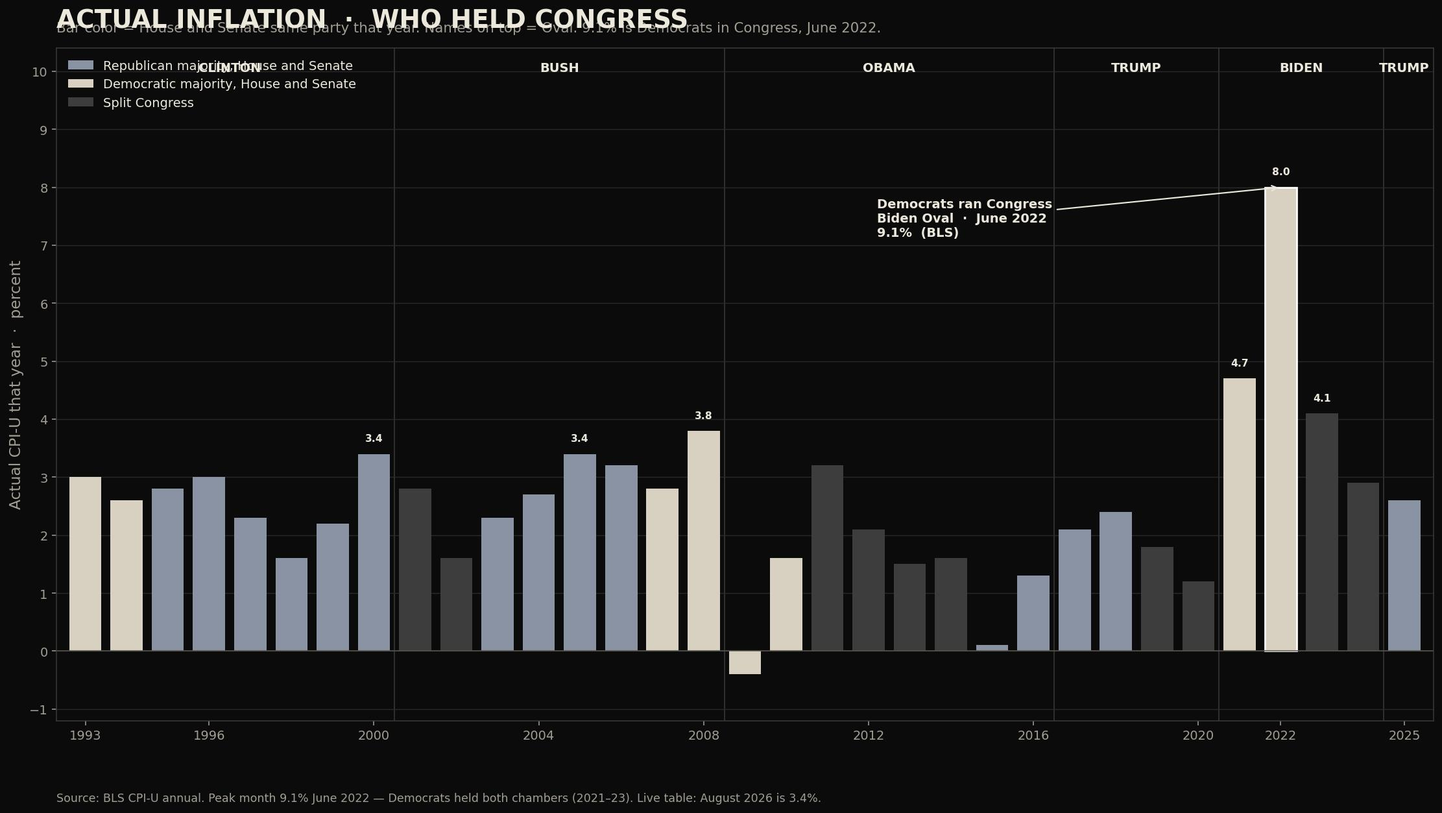
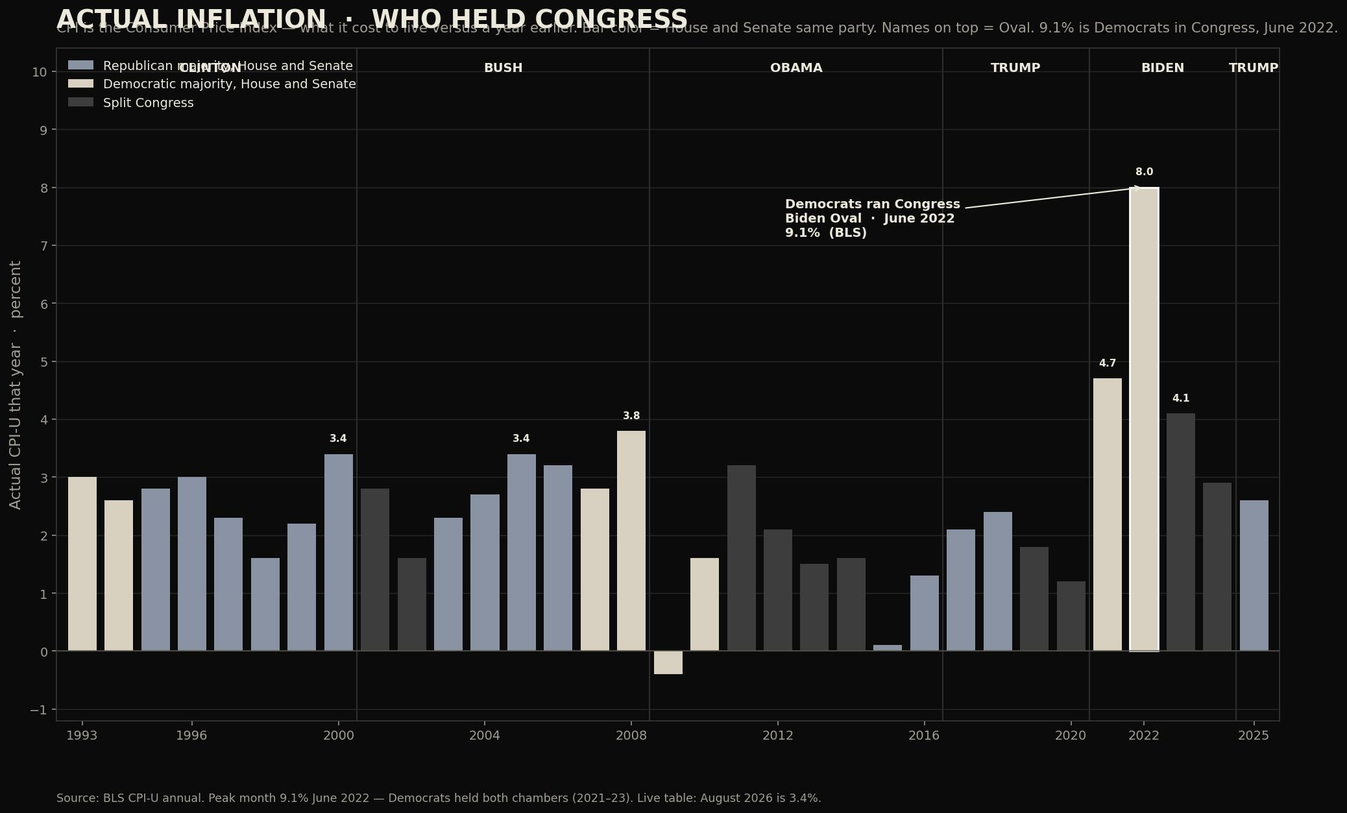
Spell out CPI peak: highest 12-month rise in prices, groceries rent fuel.

diff --git a/UPLOAD-TO-NAMECHEAP/scorecard.html b/UPLOAD-TO-NAMECHEAP/scorecard.html
@@ -92,12 +92,12 @@ footer .f{max-width:72rem;margin:0 auto;display:flex;justify-content:space-betwe
 <div class="panel" id="gop-charts">
 <p class="btns"><a class="btn" href="#gop-charts">Charts</a><a class="btn out" href="#gop-read">Read</a></p>
 
-<figure><p class="kicker">Policy — success and failure</p><img src="/images/chart-policy.jpg" alt="Policy — success and failure"/><figcaption style="color:#a39e93;font-size:.85rem"><a href="https://www.congress.gov/">Congress.gov</a> · <a href="https://www.bls.gov/news.release/archives/cpi_07132022.htm">BLS — June 2022</a></figcaption></figure><figure><p class="kicker">The debt — the driver, and what each party voted</p><img src="/images/chart-debt-why.jpg" alt="The debt — the driver, and what each party voted"/><figcaption style="color:#a39e93;font-size:.85rem"><a href="https://www.cbo.gov/topics/budget">CBO — budget</a> · <a href="https://fiscaldata.treasury.gov/datasets/debt-to-the-penny/">Treasury — Debt to the Penny</a> · <a href="https://www.gao.gov/products/gao-25-107746">GAO fraud</a></figcaption></figure><figure><p class="kicker">The Oval — encounters and the CPI peak</p><img src="/images/chart-oval.jpg" alt="The Oval — encounters and the CPI peak"/><figcaption style="color:#a39e93;font-size:.85rem"><a href="https://www.cbp.gov/newsroom/stats/cbp-enforcement-statistics">CBP — enforcement statistics</a> · <a href="https://www.bls.gov/cpi/">BLS — CPI</a> · <a href="https://www.eia.gov/petroleum/gasdiesel/">EIA — the gallon</a></figcaption></figure>
+<figure><p class="kicker">Policy — success and failure</p><img src="/images/chart-policy.jpg" alt="Policy — success and failure"/><figcaption style="color:#a39e93;font-size:.85rem"><a href="https://www.congress.gov/">Congress.gov</a> · <a href="https://www.bls.gov/news.release/archives/cpi_07132022.htm">BLS — June 2022</a></figcaption></figure><figure><p class="kicker">The debt — the driver, and what each party voted</p><img src="/images/chart-debt-why.jpg" alt="The debt — the driver, and what each party voted"/><figcaption style="color:#a39e93;font-size:.85rem"><a href="https://www.cbo.gov/topics/budget">CBO — budget</a> · <a href="https://fiscaldata.treasury.gov/datasets/debt-to-the-penny/">Treasury — Debt to the Penny</a> · <a href="https://www.gao.gov/products/gao-25-107746">GAO fraud</a></figcaption></figure><figure><p class="kicker">The Oval — encounters and the highest price spike (CPI)</p><img src="/images/chart-oval.jpg" alt="The Oval — encounters and the highest price spike (CPI)"/><figcaption style="color:#a39e93;font-size:.85rem"><a href="https://www.cbp.gov/newsroom/stats/cbp-enforcement-statistics">CBP — enforcement statistics</a> · <a href="https://www.bls.gov/cpi/">BLS — CPI</a> · <a href="https://www.eia.gov/petroleum/gasdiesel/">EIA — the gallon</a></figcaption></figure>
 </div>
 <div class="panel" id="dem-charts">
 <p class="btns"><a class="btn" href="#dem-charts">Charts</a><a class="btn out" href="#dem-read">Read</a></p>
 
-<figure><p class="kicker">The invasion bill — taxpayer cost and the eligibility doors</p><img src="/images/chart-aliens.jpg" alt="The invasion bill — taxpayer cost and the eligibility doors"/><figcaption style="color:#a39e93;font-size:.85rem"><a href="https://www.cbp.gov/newsroom/stats/nationwide-encounters">CBP nationwide</a> · <a href="https://www.cbo.gov/publication/61256">CBO 61256</a> · <a href="https://www.cbo.gov/publication/60805">CBO 60805</a> · <a href="https://www.law.cornell.edu/uscode/text/8/1611">8 U.S.C. § 1611</a></figcaption></figure><figure><p class="kicker">The open border — by administration</p><img src="/images/chart-border.jpg" alt="The open border — by administration"/><figcaption style="color:#a39e93;font-size:.85rem"><a href="https://www.cbp.gov/newsroom/stats/southwest-land-border-encounters">CBP — southwest encounters</a> · <a href="https://www.cbo.gov/publication/61256">CBO — 2023 state and local cost</a></figcaption></figure><figure><p class="kicker">The Oval — encounters and the CPI peak</p><img src="/images/chart-oval.jpg" alt="The Oval — encounters and the CPI peak"/><figcaption style="color:#a39e93;font-size:.85rem"><a href="https://www.cbp.gov/newsroom/stats/cbp-enforcement-statistics">CBP — enforcement statistics</a> · <a href="https://www.bls.gov/cpi/">BLS — CPI</a> · <a href="https://www.eia.gov/petroleum/gasdiesel/">EIA — the gallon</a></figcaption></figure><figure><p class="kicker">Actual inflation — who held Congress</p><img src="/images/chart-inflation-party.jpg" alt="Actual inflation — who held Congress"/><figcaption style="color:#a39e93;font-size:.85rem"><a href="https://www.bls.gov/cpi/">BLS CPI-U</a> · <a href="https://www.bls.gov/news.release/archives/cpi_07132022.htm">9.1% — June 2022</a> · <a href="https://www.bls.gov/news.release/cpi.nr0.htm">BLS live — August 2026, 3.4%</a> · <a href="https://fred.stlouisfed.org/graph/?id=CPIAUCSL&units=pc1">FRED — 12-month CPI</a></figcaption></figure><figure><p class="kicker">Policy — success and failure</p><img src="/images/chart-policy.jpg" alt="Policy — success and failure"/><figcaption style="color:#a39e93;font-size:.85rem"><a href="https://www.congress.gov/">Congress.gov</a> · <a href="https://www.bls.gov/news.release/archives/cpi_07132022.htm">BLS — June 2022</a></figcaption></figure>
+<figure><p class="kicker">The invasion bill — taxpayer cost and the eligibility doors</p><img src="/images/chart-aliens.jpg" alt="The invasion bill — taxpayer cost and the eligibility doors"/><figcaption style="color:#a39e93;font-size:.85rem"><a href="https://www.cbp.gov/newsroom/stats/nationwide-encounters">CBP nationwide</a> · <a href="https://www.cbo.gov/publication/61256">CBO 61256</a> · <a href="https://www.cbo.gov/publication/60805">CBO 60805</a> · <a href="https://www.law.cornell.edu/uscode/text/8/1611">8 U.S.C. § 1611</a></figcaption></figure><figure><p class="kicker">The open border — by administration</p><img src="/images/chart-border.jpg" alt="The open border — by administration"/><figcaption style="color:#a39e93;font-size:.85rem"><a href="https://www.cbp.gov/newsroom/stats/southwest-land-border-encounters">CBP — southwest encounters</a> · <a href="https://www.cbo.gov/publication/61256">CBO — 2023 state and local cost</a></figcaption></figure><figure><p class="kicker">The Oval — encounters and the highest price spike (CPI)</p><img src="/images/chart-oval.jpg" alt="The Oval — encounters and the highest price spike (CPI)"/><figcaption style="color:#a39e93;font-size:.85rem"><a href="https://www.cbp.gov/newsroom/stats/cbp-enforcement-statistics">CBP — enforcement statistics</a> · <a href="https://www.bls.gov/cpi/">BLS — CPI</a> · <a href="https://www.eia.gov/petroleum/gasdiesel/">EIA — the gallon</a></figcaption></figure><figure><p class="kicker">Actual inflation — who held Congress</p><img src="/images/chart-inflation-party.jpg" alt="Actual inflation — who held Congress"/><figcaption style="color:#a39e93;font-size:.85rem"><a href="https://www.bls.gov/cpi/">BLS CPI-U</a> · <a href="https://www.bls.gov/news.release/archives/cpi_07132022.htm">9.1% — June 2022</a> · <a href="https://www.bls.gov/news.release/cpi.nr0.htm">BLS live — August 2026, 3.4%</a> · <a href="https://fred.stlouisfed.org/graph/?id=CPIAUCSL&units=pc1">FRED — 12-month CPI</a></figcaption></figure><figure><p class="kicker">Policy — success and failure</p><img src="/images/chart-policy.jpg" alt="Policy — success and failure"/><figcaption style="color:#a39e93;font-size:.85rem"><a href="https://www.congress.gov/">Congress.gov</a> · <a href="https://www.bls.gov/news.release/archives/cpi_07132022.htm">BLS — June 2022</a></figcaption></figure>
 </div>
 <div class="panel" id="split-charts">
 <p class="btns"><a class="btn" href="#split-charts">Charts</a><a class="btn out" href="#split-read">Read</a></p>
@@ -106,13 +106,13 @@ footer .f{max-width:72rem;margin:0 auto;display:flex;justify-content:space-betwe
 </div>
 <div class="panel" id="oval-charts">
 <p class="btns"><a class="btn" href="#oval-charts">Charts</a><a class="btn out" href="#oval-read">Read</a></p>
-<p class="kicker">What an encounter is</p><p>Customs and Border Protection counts an encounter when its officers meet a person who is not making a lawful entry. That is Border Patrol between the ports of entry, and officers at land ports, airports, and seaports. It is people stopped, turned back, expelled, or processed. It is not a visa. It is not a gotaway — those are the people CBP did not meet. Nationwide means every door CBP counts, not only the southwest river. Bush and Obama use southwest Border Patrol, the long official table. Trump 1 and Biden use CBP nationwide when that dashboard exists. Four Ovals: two Republican, two Democratic.</p><p><a href="https://www.cbp.gov/newsroom/stats/nationwide-encounters">CBP — nationwide encounters →</a></p>
-<figure><p class="kicker">The Oval — encounters and the CPI peak</p><img src="/images/chart-oval.jpg" alt="The Oval — encounters and the CPI peak"/><figcaption style="color:#a39e93;font-size:.85rem"><a href="https://www.cbp.gov/newsroom/stats/cbp-enforcement-statistics">CBP — enforcement statistics</a> · <a href="https://www.bls.gov/cpi/">BLS — CPI</a> · <a href="https://www.eia.gov/petroleum/gasdiesel/">EIA — the gallon</a></figcaption></figure><figure><p class="kicker">The gallon — four administrations</p><img src="/images/chart-pump-admins.jpg" alt="The gallon — four administrations"/><figcaption style="color:#a39e93;font-size:.85rem"><a href="https://www.eia.gov/petroleum/gasdiesel/">EIA</a> · <a href="https://fred.stlouisfed.org/series/GASREGW">FRED GASREGW</a></figcaption></figure><figure><p class="kicker">Crime — murder rate by administration</p><img src="/images/chart-crime.jpg" alt="Crime — murder rate by administration"/><figcaption style="color:#a39e93;font-size:.85rem"><a href="https://www.fbi.gov/news/stories/violent-crime-falls-at-historic-rate-new-fbi-data-show">FBI — violent crime 2025</a> · <a href="https://bjs.ojp.gov/document/ckle24.pdf">BJS — Crime Known to Law Enforcement, 2024</a></figcaption></figure>
+<p class="kicker">What an encounter is</p><p>Customs and Border Protection counts an encounter when its officers meet a person who is not making a lawful entry. That is Border Patrol between the ports of entry, and officers at land ports, airports, and seaports. It is people stopped, turned back, expelled, or processed. It is not a visa. It is not a gotaway — those are the people CBP did not meet. Nationwide means every door CBP counts, not only the southwest river. Bush and Obama use southwest Border Patrol, the long official table. Trump 1 and Biden use CBP nationwide when that dashboard exists. Four Ovals: two Republican, two Democratic.</p><p><a href="https://www.cbp.gov/newsroom/stats/nationwide-encounters">CBP — nationwide encounters →</a></p><p class="kicker">What CPI peak means</p><p>CPI is the Consumer Price Index. The Bureau of Labor Statistics measures a basket of what people actually buy — groceries, rent, fuel, the doctor’s office — and reports how much more that basket costs than a year earlier. CPI peak is the highest of those 12-month readings in that Oval. It is not a four-year average. Biden’s 9.1% is June 2022. Bush’s 5.6% is July 2008. Obama’s 3.9% is September 2011. Trump’s first term: 2.9%.</p><p><a href="https://www.bls.gov/cpi/">BLS — Consumer Price Index →</a></p>
+<figure><p class="kicker">The Oval — encounters and the highest price spike (CPI)</p><img src="/images/chart-oval.jpg" alt="The Oval — encounters and the highest price spike (CPI)"/><figcaption style="color:#a39e93;font-size:.85rem"><a href="https://www.cbp.gov/newsroom/stats/cbp-enforcement-statistics">CBP — enforcement statistics</a> · <a href="https://www.bls.gov/cpi/">BLS — CPI</a> · <a href="https://www.eia.gov/petroleum/gasdiesel/">EIA — the gallon</a></figcaption></figure><figure><p class="kicker">The gallon — four administrations</p><img src="/images/chart-pump-admins.jpg" alt="The gallon — four administrations"/><figcaption style="color:#a39e93;font-size:.85rem"><a href="https://www.eia.gov/petroleum/gasdiesel/">EIA</a> · <a href="https://fred.stlouisfed.org/series/GASREGW">FRED GASREGW</a></figcaption></figure><figure><p class="kicker">Crime — murder rate by administration</p><img src="/images/chart-crime.jpg" alt="Crime — murder rate by administration"/><figcaption style="color:#a39e93;font-size:.85rem"><a href="https://www.fbi.gov/news/stories/violent-crime-falls-at-historic-rate-new-fbi-data-show">FBI — violent crime 2025</a> · <a href="https://bjs.ojp.gov/document/ckle24.pdf">BJS — Crime Known to Law Enforcement, 2024</a></figcaption></figure>
 </div>
 <div class="panel" id="compare-charts">
 <p class="btns"><a class="btn" href="#compare-charts">Charts</a><a class="btn out" href="#compare-read">Read</a></p>
 
-<figure><p class="kicker">The Oval — encounters and the CPI peak</p><img src="/images/chart-oval.jpg" alt="The Oval — encounters and the CPI peak"/><figcaption style="color:#a39e93;font-size:.85rem"><a href="https://www.cbp.gov/newsroom/stats/cbp-enforcement-statistics">CBP — enforcement statistics</a> · <a href="https://www.bls.gov/cpi/">BLS — CPI</a> · <a href="https://www.eia.gov/petroleum/gasdiesel/">EIA — the gallon</a></figcaption></figure><figure><p class="kicker">Policy — success and failure</p><img src="/images/chart-policy.jpg" alt="Policy — success and failure"/><figcaption style="color:#a39e93;font-size:.85rem"><a href="https://www.congress.gov/">Congress.gov</a> · <a href="https://www.bls.gov/news.release/archives/cpi_07132022.htm">BLS — June 2022</a></figcaption></figure><figure><p class="kicker">The debt — the driver, and what each party voted</p><img src="/images/chart-debt-why.jpg" alt="The debt — the driver, and what each party voted"/><figcaption style="color:#a39e93;font-size:.85rem"><a href="https://www.cbo.gov/topics/budget">CBO — budget</a> · <a href="https://fiscaldata.treasury.gov/datasets/debt-to-the-penny/">Treasury — Debt to the Penny</a> · <a href="https://www.gao.gov/products/gao-25-107746">GAO fraud</a></figcaption></figure><figure><p class="kicker">The invasion bill — taxpayer cost and the eligibility doors</p><img src="/images/chart-aliens.jpg" alt="The invasion bill — taxpayer cost and the eligibility doors"/><figcaption style="color:#a39e93;font-size:.85rem"><a href="https://www.cbp.gov/newsroom/stats/nationwide-encounters">CBP nationwide</a> · <a href="https://www.cbo.gov/publication/61256">CBO 61256</a> · <a href="https://www.cbo.gov/publication/60805">CBO 60805</a> · <a href="https://www.law.cornell.edu/uscode/text/8/1611">8 U.S.C. § 1611</a></figcaption></figure><figure><p class="kicker">The open border — by administration</p><img src="/images/chart-border.jpg" alt="The open border — by administration"/><figcaption style="color:#a39e93;font-size:.85rem"><a href="https://www.cbp.gov/newsroom/stats/southwest-land-border-encounters">CBP — southwest encounters</a> · <a href="https://www.cbo.gov/publication/61256">CBO — 2023 state and local cost</a></figcaption></figure><figure><p class="kicker">Actual inflation — who held Congress</p><img src="/images/chart-inflation-party.jpg" alt="Actual inflation — who held Congress"/><figcaption style="color:#a39e93;font-size:.85rem"><a href="https://www.bls.gov/cpi/">BLS CPI-U</a> · <a href="https://www.bls.gov/news.release/archives/cpi_07132022.htm">9.1% — June 2022</a> · <a href="https://www.bls.gov/news.release/cpi.nr0.htm">BLS live — August 2026, 3.4%</a> · <a href="https://fred.stlouisfed.org/graph/?id=CPIAUCSL&units=pc1">FRED — 12-month CPI</a></figcaption></figure><figure><p class="kicker">Crime — murder rate by administration</p><img src="/images/chart-crime.jpg" alt="Crime — murder rate by administration"/><figcaption style="color:#a39e93;font-size:.85rem"><a href="https://www.fbi.gov/news/stories/violent-crime-falls-at-historic-rate-new-fbi-data-show">FBI — violent crime 2025</a> · <a href="https://bjs.ojp.gov/document/ckle24.pdf">BJS — Crime Known to Law Enforcement, 2024</a></figcaption></figure><figure><p class="kicker">The gallon — four administrations</p><img src="/images/chart-pump-admins.jpg" alt="The gallon — four administrations"/><figcaption style="color:#a39e93;font-size:.85rem"><a href="https://www.eia.gov/petroleum/gasdiesel/">EIA</a> · <a href="https://fred.stlouisfed.org/series/GASREGW">FRED GASREGW</a></figcaption></figure>
+<figure><p class="kicker">The Oval — encounters and the highest price spike (CPI)</p><img src="/images/chart-oval.jpg" alt="The Oval — encounters and the highest price spike (CPI)"/><figcaption style="color:#a39e93;font-size:.85rem"><a href="https://www.cbp.gov/newsroom/stats/cbp-enforcement-statistics">CBP — enforcement statistics</a> · <a href="https://www.bls.gov/cpi/">BLS — CPI</a> · <a href="https://www.eia.gov/petroleum/gasdiesel/">EIA — the gallon</a></figcaption></figure><figure><p class="kicker">Policy — success and failure</p><img src="/images/chart-policy.jpg" alt="Policy — success and failure"/><figcaption style="color:#a39e93;font-size:.85rem"><a href="https://www.congress.gov/">Congress.gov</a> · <a href="https://www.bls.gov/news.release/archives/cpi_07132022.htm">BLS — June 2022</a></figcaption></figure><figure><p class="kicker">The debt — the driver, and what each party voted</p><img src="/images/chart-debt-why.jpg" alt="The debt — the driver, and what each party voted"/><figcaption style="color:#a39e93;font-size:.85rem"><a href="https://www.cbo.gov/topics/budget">CBO — budget</a> · <a href="https://fiscaldata.treasury.gov/datasets/debt-to-the-penny/">Treasury — Debt to the Penny</a> · <a href="https://www.gao.gov/products/gao-25-107746">GAO fraud</a></figcaption></figure><figure><p class="kicker">The invasion bill — taxpayer cost and the eligibility doors</p><img src="/images/chart-aliens.jpg" alt="The invasion bill — taxpayer cost and the eligibility doors"/><figcaption style="color:#a39e93;font-size:.85rem"><a href="https://www.cbp.gov/newsroom/stats/nationwide-encounters">CBP nationwide</a> · <a href="https://www.cbo.gov/publication/61256">CBO 61256</a> · <a href="https://www.cbo.gov/publication/60805">CBO 60805</a> · <a href="https://www.law.cornell.edu/uscode/text/8/1611">8 U.S.C. § 1611</a></figcaption></figure><figure><p class="kicker">The open border — by administration</p><img src="/images/chart-border.jpg" alt="The open border — by administration"/><figcaption style="color:#a39e93;font-size:.85rem"><a href="https://www.cbp.gov/newsroom/stats/southwest-land-border-encounters">CBP — southwest encounters</a> · <a href="https://www.cbo.gov/publication/61256">CBO — 2023 state and local cost</a></figcaption></figure><figure><p class="kicker">Actual inflation — who held Congress</p><img src="/images/chart-inflation-party.jpg" alt="Actual inflation — who held Congress"/><figcaption style="color:#a39e93;font-size:.85rem"><a href="https://www.bls.gov/cpi/">BLS CPI-U</a> · <a href="https://www.bls.gov/news.release/archives/cpi_07132022.htm">9.1% — June 2022</a> · <a href="https://www.bls.gov/news.release/cpi.nr0.htm">BLS live — August 2026, 3.4%</a> · <a href="https://fred.stlouisfed.org/graph/?id=CPIAUCSL&units=pc1">FRED — 12-month CPI</a></figcaption></figure><figure><p class="kicker">Crime — murder rate by administration</p><img src="/images/chart-crime.jpg" alt="Crime — murder rate by administration"/><figcaption style="color:#a39e93;font-size:.85rem"><a href="https://www.fbi.gov/news/stories/violent-crime-falls-at-historic-rate-new-fbi-data-show">FBI — violent crime 2025</a> · <a href="https://bjs.ojp.gov/document/ckle24.pdf">BJS — Crime Known to Law Enforcement, 2024</a></figcaption></figure><figure><p class="kicker">The gallon — four administrations</p><img src="/images/chart-pump-admins.jpg" alt="The gallon — four administrations"/><figcaption style="color:#a39e93;font-size:.85rem"><a href="https://www.eia.gov/petroleum/gasdiesel/">EIA</a> · <a href="https://fred.stlouisfed.org/series/GASREGW">FRED GASREGW</a></figcaption></figure>
 </div>
 <div class="panel" id="gop-read">
 <p class="btns"><a class="btn out" href="#gop-charts">Charts</a><a class="btn" href="#gop-read">Read</a></p>
@@ -168,7 +168,10 @@ footer .f{max-width:72rem;margin:0 auto;display:flex;justify-content:space-betwe
 <p class="kicker">What an encounter is</p>
 <p>Customs and Border Protection counts an encounter when its officers meet a person who is not making a lawful entry. That is Border Patrol between the ports of entry, and officers at land ports, airports, and seaports. It is people stopped, turned back, expelled, or processed. It is not a visa. It is not a gotaway — those are the people CBP did not meet. Nationwide means every door CBP counts, not only the southwest river. Bush and Obama use southwest Border Patrol, the long official table. Trump 1 and Biden use CBP nationwide when that dashboard exists. Four Ovals: two Republican, two Democratic.</p>
 <p><a href="https://www.cbp.gov/newsroom/stats/nationwide-encounters">CBP — nationwide encounters →</a></p>
-<div class="grid"><div class="card" style="padding:1.2rem"><p class="kicker">Bush</p><p>FY2001–08</p><h3>8.02 million</h3><p>Southwest Border Patrol apprehensions, FY2001–08. CPI peak July 2008. EIA weekly regular: highest week $4.114 (July 7, 2008).</p><h3>5.6%</h3><p>CPI peak</p><h3>$4.114 peak</h3><p>highest EIA weekly gasoline</p></div><div class="card" style="padding:1.2rem"><p class="kicker">Obama</p><p>FY2009–16</p><h3>3.31 million</h3><p>Southwest Border Patrol apprehensions, FY2009–16. CBP’s nationwide combined dashboard was not published for those years. CPI peak September 2011. EIA weekly regular: highest week $3.965 (May 9, 2011).</p><h3>3.9%</h3><p>CPI peak</p><h3>$3.965 peak</h3><p>highest EIA weekly gasoline</p></div><div class="card" style="padding:1.2rem"><p class="kicker">Trump 1</p><p>FY2017–20</p><h3>3.00 million</h3><p>Nationwide encounters. CPI peak in the term. EIA weekly regular: highest week $2.962 (May 28, 2018).</p><h3>2.9%</h3><p>CPI peak</p><h3>$2.96 peak</h3><p>highest EIA weekly gasoline</p></div><div class="card" style="padding:1.2rem"><p class="kicker">Biden</p><p>FY2021–24</p><h3>10.83 million</h3><p>Nationwide encounters. CPI June 2022. EIA weekly regular: $5.006 the week of June 13, 2022.</p><h3>9.1%</h3><p>CPI peak</p><h3>$5.006 peak</h3><p>highest EIA weekly gasoline</p></div></div>
+<p class="kicker">What CPI peak means</p>
+<p>CPI is the Consumer Price Index. The Bureau of Labor Statistics measures a basket of what people actually buy — groceries, rent, fuel, the doctor’s office — and reports how much more that basket costs than a year earlier. CPI peak is the highest of those 12-month readings in that Oval. It is not a four-year average. Biden’s 9.1% is June 2022. Bush’s 5.6% is July 2008. Obama’s 3.9% is September 2011. Trump’s first term: 2.9%.</p>
+<p><a href="https://www.bls.gov/cpi/">BLS — Consumer Price Index →</a></p>
+<div class="grid"><div class="card" style="padding:1.2rem"><p class="kicker">Bush</p><p>FY2001–08</p><h3>8.02 million</h3><p>Southwest Border Patrol apprehensions, FY2001–08. CPI peak July 2008. EIA weekly regular: highest week $4.114 (July 7, 2008).</p><h3>5.6%</h3><p>CPI peak — highest 12-month rise in prices that Oval (groceries, rent, fuel)</p><h3>$4.114 peak</h3><p>highest EIA weekly gasoline</p></div><div class="card" style="padding:1.2rem"><p class="kicker">Obama</p><p>FY2009–16</p><h3>3.31 million</h3><p>Southwest Border Patrol apprehensions, FY2009–16. CBP’s nationwide combined dashboard was not published for those years. CPI peak September 2011. EIA weekly regular: highest week $3.965 (May 9, 2011).</p><h3>3.9%</h3><p>CPI peak — highest 12-month rise in prices that Oval (groceries, rent, fuel)</p><h3>$3.965 peak</h3><p>highest EIA weekly gasoline</p></div><div class="card" style="padding:1.2rem"><p class="kicker">Trump 1</p><p>FY2017–20</p><h3>3.00 million</h3><p>Nationwide encounters. CPI peak in the term. EIA weekly regular: highest week $2.962 (May 28, 2018).</p><h3>2.9%</h3><p>CPI peak — highest 12-month rise in prices that Oval (groceries, rent, fuel)</p><h3>$2.96 peak</h3><p>highest EIA weekly gasoline</p></div><div class="card" style="padding:1.2rem"><p class="kicker">Biden</p><p>FY2021–24</p><h3>10.83 million</h3><p>Nationwide encounters. CPI June 2022. EIA weekly regular: $5.006 the week of June 13, 2022.</p><h3>9.1%</h3><p>CPI peak — highest 12-month rise in prices that Oval (groceries, rent, fuel)</p><h3>$5.006 peak</h3><p>highest EIA weekly gasoline</p></div></div>
 <p><a href="https://www.cbp.gov/newsroom/stats/nationwide-encounters"><strong>This term</strong> · FY2025 · 0.69 million nationwide. After the Oval changed. Southwest Border Patrol 237,538 — lowest since 1970.</a></p>
 <p><a href="https://www.cbp.gov/newsroom/stats/nationwide-encounters">CBP — nationwide encounters</a> · <a href="https://www.cbp.gov/document/stats/us-border-patrol-fiscal-year-southwest-border-sector-apprehensions-fy-1960-fy-2019">CBP — southwest Border Patrol FY1960–2019</a> · <a href="https://www.bls.gov/news.release/archives/cpi_08142008.htm">BLS — CPI July 2008, 5.6%</a> · <a href="https://www.bls.gov/news.release/archives/cpi_10192011.htm">BLS — CPI September 2011, 3.9%</a> · <a href="https://www.cbp.gov/newsroom/stats/cbp-enforcement-statistics">CBP — enforcement statistics</a> · <a href="https://www.bls.gov/cpi/">BLS — CPI</a> · <a href="https://www.eia.gov/petroleum/gasdiesel/">EIA — the gallon</a> · <a href="/pump.html">The pump</a></p>
 </div>

diff --git a/src/components/midterm-scorecard.tsx b/src/components/midterm-scorecard.tsx
@@ -10,6 +10,7 @@ import {
   OVAL_LINKS,
   OVAL_NOW,
   ENCOUNTERS,
+  CPI_PEAK,
   ALIENS,
   DEBT_WHY,
   CHARTS,
@@ -38,6 +39,7 @@ function ChartStack({ tab }: { tab: TabId }) {
   return (
     <div className="space-y-8">
       {tab === "oval" ? (
+        <>
         <div className="rounded-md border border-border bg-surface p-5">
           <p className="font-display text-xs font-semibold tracking-[0.2em] text-sage uppercase">
             {ENCOUNTERS.k}
@@ -52,6 +54,21 @@ function ChartStack({ tab }: { tab: TabId }) {
             CBP — nationwide encounters →
           </a>
         </div>
+        <div className="rounded-md border border-border bg-surface p-5">
+          <p className="font-display text-xs font-semibold tracking-[0.2em] text-sage uppercase">
+            {CPI_PEAK.k}
+          </p>
+          <p className="mt-3 text-base leading-relaxed">{CPI_PEAK.v}</p>
+          <a
+            href={CPI_PEAK.href}
+            target="_blank"
+            rel="noreferrer"
+            className="mt-3 inline-flex min-h-11 items-center font-display text-xs font-semibold tracking-wide text-sage uppercase no-underline hover:text-fg"
+          >
+            BLS — Consumer Price Index →
+          </a>
+        </div>
+        </>
       ) : null}
       {TAB_CHARTS[tab].map((c) => (
         <figure key={c.src}>
@@ -417,6 +434,20 @@ function OvalFile() {
           CBP — nationwide encounters →
         </a>
       </div>
+      <div className="rounded-md border border-border bg-surface p-5">
+        <p className="font-display text-xs font-semibold tracking-[0.2em] text-sage uppercase">
+          {CPI_PEAK.k}
+        </p>
+        <p className="mt-3 text-base leading-relaxed">{CPI_PEAK.v}</p>
+        <a
+          href={CPI_PEAK.href}
+          target="_blank"
+          rel="noreferrer"
+          className="mt-3 inline-flex min-h-11 items-center font-display text-xs font-semibold tracking-wide text-sage uppercase no-underline hover:text-fg"
+        >
+          BLS — Consumer Price Index →
+        </a>
+      </div>
       <div className="grid gap-4 sm:grid-cols-2 lg:grid-cols-4">
         {OVAL.map((row) => (
           <div key={row.who} className="rounded-md border border-border bg-surface p-5">
@@ -427,7 +458,9 @@ function OvalFile() {
             <p className="mt-4 font-display text-3xl font-bold tracking-wide">{row.enc}</p>
             <p className="mt-1 text-sm text-muted">{row.note}</p>
             <p className="mt-4 font-display text-2xl font-bold tracking-wide">{row.cpi}</p>
-            <p className="mt-1 text-sm text-muted">CPI peak, year-over-year</p>
+            <p className="mt-1 text-sm text-muted">
+              CPI peak — highest 12-month rise in prices that Oval (groceries, rent, fuel)
+            </p>
             <p className="mt-4 font-display text-2xl font-bold tracking-wide">{row.gas}</p>
             <p className="mt-1 text-sm text-muted">highest EIA weekly gasoline</p>
           </div>

diff --git a/src/lib/scorecard.ts b/src/lib/scorecard.ts
@@ -273,6 +273,13 @@ export const ENCOUNTERS = {
   href: "https://www.cbp.gov/newsroom/stats/nationwide-encounters",
 };
 
+/** What CPI peak means. BLS. Not a mood. */
+export const CPI_PEAK = {
+  k: "What CPI peak means",
+  v: "CPI is the Consumer Price Index. The Bureau of Labor Statistics measures a basket of what people actually buy — groceries, rent, fuel, the doctor’s office — and reports how much more that basket costs than a year earlier. CPI peak is the highest of those 12-month readings in that Oval. It is not a four-year average. Biden’s 9.1% is June 2022. Bush’s 5.6% is July 2008. Obama’s 3.9% is September 2011. Trump’s first term: 2.9%.",
+  href: "https://www.bls.gov/cpi/",
+};
+
 /** Open border — Democratic watch. CBO, CBP, CDC, DHS. Not a panel. */
 export const BORDER = {
   k: "They opened the border",
@@ -1122,7 +1129,7 @@ export const CHARTS: {
   },
   {
     src: "/images/chart-oval.jpg",
-    title: "The Oval — encounters and the CPI peak",
+    title: "The Oval — encounters and the highest price spike (CPI)",
     sources: [
       { label: "CBP — enforcement statistics", href: "https://www.cbp.gov/newsroom/stats/cbp-enforcement-statistics" },
       { label: "BLS — CPI", href: "https://www.bls.gov/cpi/" },

diff --git a/scripts/make-party-charts.py b/scripts/make-party-charts.py
@@ -140,7 +140,7 @@ ax.set_title("ACTUAL INFLATION  ·  WHO HELD CONGRESS", fontsize=20, fontweight=
 ax.text(
     0.0,
     1.02,
-    "Bar color = House and Senate same party that year. Names on top = Oval. 9.1% is Democrats in Congress, June 2022.",
+    "CPI is the Consumer Price Index — what it cost to live versus a year earlier. Bar color = House and Senate same party. Names on top = Oval. 9.1% is Democrats in Congress, June 2022.",
     transform=ax.transAxes,
     fontsize=11,
     color=muted,
@@ -522,8 +522,8 @@ ax.set_ylim(0, 13)
 ax = axes[1]
 ax.set_facecolor(bg)
 ax.bar(labs, cpi, color=cols_o, width=0.62)
-ax.set_title("CPI PEAK, YEAR-OVER-YEAR", fontsize=16, fontweight="bold", color=fg, loc="left")
-ax.set_ylabel("Percent", color=muted)
+ax.set_title("HIGHEST PRICE SPIKE  ·  CPI", fontsize=16, fontweight="bold", color=fg, loc="left")
+ax.set_ylabel("Percent higher than a year earlier", color=muted)
 for i, v in enumerate(cpi):
     ax.text(i, v + 0.15, f"{v:.1f}%", ha="center", fontsize=12, fontweight="bold", color=fg)
 ax.set_ylim(0, 11)
@@ -538,7 +538,7 @@ fig.suptitle("THE OVAL — SAME METERS", fontsize=22, fontweight="bold", color=f
 fig.text(
     0.02,
     0.02,
-    "Bush and Obama: southwest Border Patrol. Trump 1 and Biden: CBP nationwide. Two GOP Ovals, two Democratic Ovals. BLS CPI peaks: Bush July 2008 5.6%; Obama Sept 2011 3.9%; Trump 1 2.9%; Biden June 2022 9.1%.",
+    "CPI is the Consumer Price Index: BLS’s basket of groceries, rent, fuel, the doctor. The bar is the highest 12-month reading in that Oval — not a four-year average. Bush July 2008 5.6%. Obama Sept 2011 3.9%. Trump 1: 2.9%. Biden June 2022 9.1%. Bush/Obama border: southwest Border Patrol. Trump 1/Biden: nationwide.",
     fontsize=9,
     color=muted,
 )
